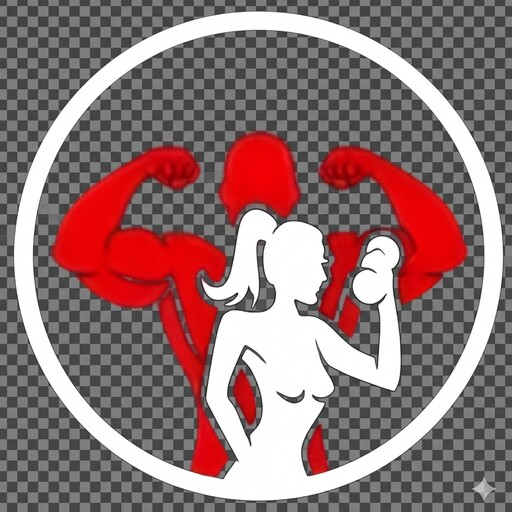
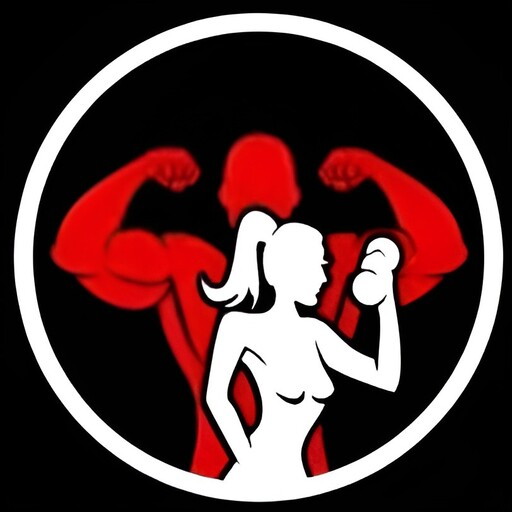
patches

diff --git a/n1fit-client/src/pages/MemberDashboard.jsx b/n1fit-client/src/pages/MemberDashboard.jsx
@@ -622,12 +622,11 @@ const MemberDashboard = () => {
 
                             <h2 style={styles.sectionTitle} style={{marginTop: '60px', marginBottom: '20px'}}>PAKETLERİMİZ</h2>
                             
-                            {/* ZİGZAG KART YAPISI AMQ! */}
+                            {/* ZİGZAG KART YAPISI! */}
                             <div style={styles.packageGrid}>
                                 {vitrinPaketleri.map((pkg, idx) => (
                                     <div key={pkg.id} style={{
-                                        ...styles.packageCard, 
-                                        transform: idx % 2 !== 0 ? 'translateY(30px)' : 'none'
+                                        ...styles.packageCard
                                     }}>
                                         <h3 style={styles.pkgType}>{pkg.name}</h3>
                                         <h4 style={styles.pkgDuration}>{pkg.durationMonths} AY</h4>